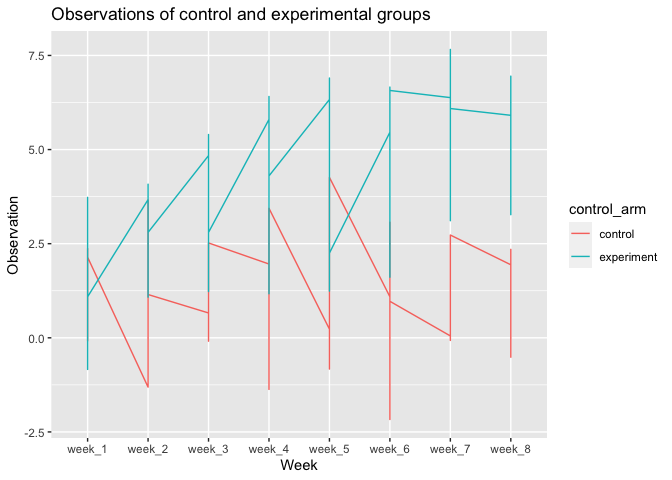
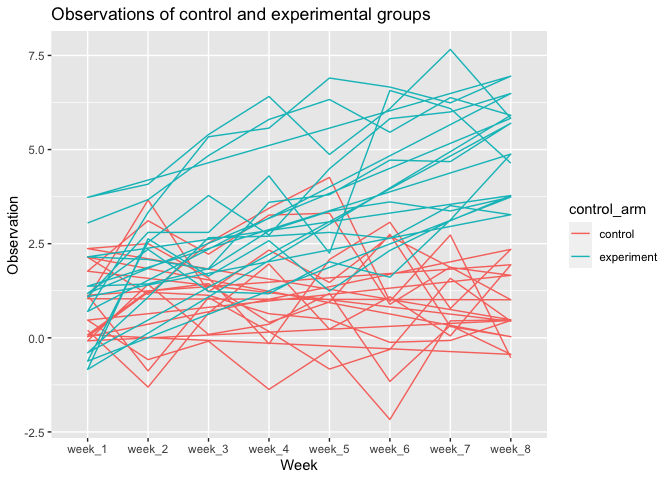
edited question 2.3, change the plot

diff --git a/p8105_hw5_yw3608.md b/p8105_hw5_yw3608.md
@@ -3,11 +3,7 @@ p8105\_hw5\_yw3608
 Yuxuan Wang
 11/18/2021
 
-**Problem 1.1** Describe the raw data. Create a city\_state variable
-(e.g. “Baltimore, MD”) and then summarize within cities to obtain the
-total number of homicides and the number of unsolved homicides (those
-for which the disposition is “Closed without arrest” or “Open/No
-arrest”).
+**Problem 1.1**
 
 ``` r
 homicide_df = 
@@ -24,11 +20,9 @@ homicide_df =
   filter(city_state != "TulsaAL")
 ```
 
-**Problem 1.2** For the city of Baltimore, MD, use the prop.test
-function to estimate the proportion of homicides that are unsolved; save
-the output of prop.test as an R object, apply the broom::tidy to this
-object and pull the estimated proportion and confidence intervals from
-the resulting tidy dataframe.
+**Describe the data** :
+
+**Problem 1.2**
 
 ``` r
 baltimore_df = 
@@ -137,7 +131,7 @@ results_df %>%
 
 ![](p8105_hw5_yw3608_files/figure-gfm/unnamed-chunk-5-1.png)<!-- -->
 
-**Problem 2**
+**Problem 2.1 & 2.2**
 
 ``` r
 data_f = 
@@ -184,7 +178,7 @@ data_f
 plot = 
   data_f%>% 
   ggplot(aes(x = week, y = observation, group = control_arm, color = control_arm)) +
-  geom_line() +
+  geom_path() +
   labs(
     title = "Observations of control and experimental groups",
     x = "Week",
@@ -218,15 +212,13 @@ fillin_NA =
     else {
     stop("Data entered not valid, should be number or letter")
   }
-    
-    
+  
   return(x)   
-
   }
   
 
 iris_finished = 
-iris_with_missing %>% 
+  iris_with_missing %>% 
   map_df(~ fillin_NA(.)) %>% 
   as_tibble()  %>% 
   knitr::kable()
